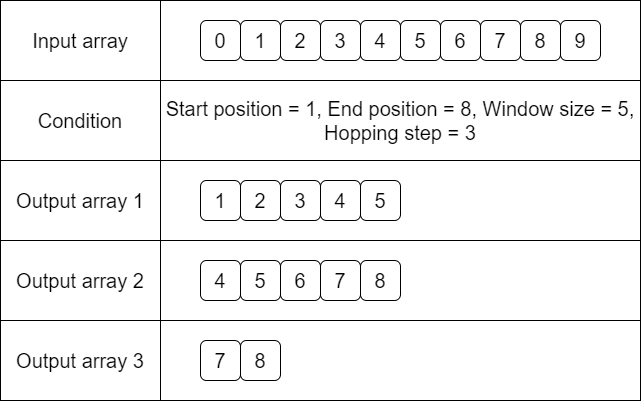
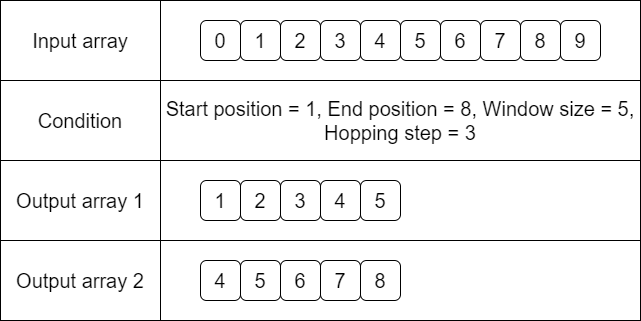
Hopping window 로직 수정 및 Doc 작성중
정책 통일 : 윈도우의 마지막 데이터를 만나면 종료

diff --git a/Peponi.Math/Peponi.Math.Tests/Windowing/HoppingWindow.cs b/Peponi.Math/Peponi.Math.Tests/Windowing/HoppingWindow.cs
@@ -80,8 +80,6 @@ public class HoppingWindowsTest
         exp.Add(input);
         input = new() { 4, 5, 6, 7, 8 };
         exp.Add(input);
-        input = new() { 7, 8 };
-        exp.Add(input);
 
         Assert.IsTrue(DataCheck.IsEqual(exp, HoppingWindows.ToHoppingWindows(datas, 1, 8, 5, 3)));
     }
@@ -96,8 +94,6 @@ public class HoppingWindowsTest
         List<int> input = new() { 1, 2, 3, 4, 5 };
         exp.Add(input);
         input = new() { 4, 5, 6, 7, 8 };
-        exp.Add(input);
-        input = new() { 7, 8 };
         exp.Add(input);
 
         Assert.IsTrue(DataCheck.IsEqual(exp, await HoppingWindows.ToHoppingWindowsAsync(datas, 1, 8, 5, 3)));
@@ -178,8 +174,6 @@ public class HoppingWindowsTest
         exp.Add(input);
         input = new() { 4, 5, 6, 7, 8 };
         exp.Add(input);
-        input = new() { 7, 8 };
-        exp.Add(input);
 
         Assert.IsTrue(DataCheck.IsEqual(exp, HoppingWindows.ToHoppingWindows(datas, 1, 8, 5, 3, x => x.Data)));
     }
@@ -194,8 +188,6 @@ public class HoppingWindowsTest
         List<int> input = new() { 1, 2, 3, 4, 5 };
         exp.Add(input);
         input = new() { 4, 5, 6, 7, 8 };
-        exp.Add(input);
-        input = new() { 7, 8 };
         exp.Add(input);
 
         Assert.IsTrue(DataCheck.IsEqual(exp, await HoppingWindows.ToHoppingWindowsAsync(datas, 1, 8, 5, 3, x => x.Data)));
@@ -257,6 +249,9 @@ public class HoppingWindowsTest
         input = new();
         for (timeIndex = 3; timeIndex < 9; timeIndex++) input.Add(DateTime.Today + TimeSpan.FromSeconds(timeIndex));
         exp.Add(input);
+        input = new();
+        for (timeIndex = 6; timeIndex <= 9; timeIndex++) input.Add(DateTime.Today + TimeSpan.FromSeconds(timeIndex));
+        exp.Add(input);
 
         Assert.IsTrue(DataCheck.IsEqual(exp, HoppingWindows.ToHoppingWindows(datas, DateTime.Today, DateTime.Today + TimeSpan.FromSeconds(9), TimeSpan.FromSeconds(5), TimeSpan.FromSeconds(3))));
     }
@@ -274,6 +269,9 @@ public class HoppingWindowsTest
         exp.Add(input);
         input = new();
         for (timeIndex = 3; timeIndex < 9; timeIndex++) input.Add(DateTime.Today + TimeSpan.FromSeconds(timeIndex));
+        exp.Add(input);
+        input = new();
+        for (timeIndex = 6; timeIndex <= 9; timeIndex++) input.Add(DateTime.Today + TimeSpan.FromSeconds(timeIndex));
         exp.Add(input);
 
         Assert.IsTrue(DataCheck.IsEqual(exp, await HoppingWindows.ToHoppingWindowsAsync(datas, DateTime.Today, DateTime.Today + TimeSpan.FromSeconds(9), TimeSpan.FromSeconds(5), TimeSpan.FromSeconds(3))));
@@ -340,6 +338,6 @@ public class HoppingWindowsTest
         input = new() { 3, 4, 5, 6, 7, 8 };
         exp.Add(input);
 
-        Assert.IsTrue(DataCheck.IsEqual(exp, await HoppingWindows.ToHoppingWindowsAsync(datas, DateTime.Today, DateTime.Today + TimeSpan.FromSeconds(9), TimeSpan.FromSeconds(5), TimeSpan.FromSeconds(3), x => x.Time, x => x.Data)));
+        Assert.IsTrue(DataCheck.IsEqual(exp, await HoppingWindows.ToHoppingWindowsAsync(datas, DateTime.Today, DateTime.Today + TimeSpan.FromSeconds(8), TimeSpan.FromSeconds(5), TimeSpan.FromSeconds(3), x => x.Time, x => x.Data)));
     }
 }

diff --git a/Peponi.Math/Peponi.Math/Windowing/HoppingWindow.Count.cs b/Peponi.Math/Peponi.Math/Windowing/HoppingWindow.Count.cs
@@ -73,12 +73,12 @@ public static partial class HoppingWindows
         {
             for (int j = i; j < i + windowSize; j++)
             {
-                if (j >= datas.Count() || j > endPosition)
+                windows.Add(datas.ElementAt(j));
+                if (j >= datas.Count() || j >= endPosition)
                 {
                     i = datas.Count();
                     break;
                 }
-                windows.Add(datas.ElementAt(j));
             }
             rtnDatas.Add(windows.ToList());
             windows.Clear();
@@ -102,12 +102,12 @@ public static partial class HoppingWindows
         {
             for (int j = i; j < i + windowSize; j++)
             {
-                if (j >= datas.Count() || j > endPosition)
+                windows.Add(dataSelector(datas.ElementAt(j)));
+                if (j >= datas.Count() || j >= endPosition)
                 {
                     i = datas.Count();
                     break;
                 }
-                windows.Add(dataSelector(datas.ElementAt(j)));
             }
             rtnDatas.Add(windows.ToList());
             windows.Clear();

diff --git a/Peponi.Math/Peponi.Math/Docs/README.md b/Peponi.Math/Peponi.Math/Docs/README.md
@@ -37,6 +37,7 @@
   - [6. Windowing](#6-windowing)
     - [6.1. Hopping window](#61-hopping-window)
     - [6.2. Sliding window](#62-sliding-window)
+    - [6.3. Tumbling window](#63-tumbling-window)
 
 
 
@@ -758,7 +759,6 @@ Console.WriteLine(UnitConvert.Convert(21.653, WeightUnit.KiloGram, WeightUnit.Po
     /* output:
     1, 2, 3, 4, 5
     4, 5, 6, 7, 8
-    7, 8
     */
     ```
     ```cs
@@ -773,7 +773,6 @@ Console.WriteLine(UnitConvert.Convert(21.653, WeightUnit.KiloGram, WeightUnit.Po
     /* output:
     1, 2, 3, 4, 5
     4, 5, 6, 7, 8
-    7, 8
     */
     ```
     ```cs
@@ -831,6 +830,119 @@ Console.WriteLine(UnitConvert.Convert(21.653, WeightUnit.KiloGram, WeightUnit.Po
     |Task<IEnumerable<IEnumerable\<V>>>|ToSlidingWindowsAsync(IEnumerable\<T>, uint, uint, Func<T, V>)||
     |IEnumerable<IEnumerable\<V>>|ToSlidingWindows(IEnumerable\<T>, uint, uint, uint, Func<T, V>)||
     |Task<IEnumerable<IEnumerable\<V>>>|ToSlidingWindowsAsync(IEnumerable\<T>, uint, uint, uint, Func<T, V>)||
+    |IEnumerable<IEnumerable\<DateTime>>|ToSlidingWindows(IEnumerable\<DateTime>, DateTime, TimeSpan)||
+    |Task<IEnumerable<IEnumerable\<DateTime>>>|ToSlidingWindowsAsync(IEnumerable\<DateTime>, DateTime, TimeSpan)||
+    |IEnumerable<IEnumerable\<DateTime>>|ToSlidingWindows(IEnumerable\<DateTime>, DateTime, DateTime, TimeSpan)||
+    |Task<IEnumerable<IEnumerable\<DateTime>>>|ToSlidingWindowsAsync(IEnumerable\<DateTime>, DateTime, DateTime, TimeSpan)||
+    |IEnumerable<IEnumerable\<V>>|ToSlidingWindows(IEnumerable\<T>, DateTime, TimeSpan, Func<T, DateTime>, Func<T, V>)||
+    |Task<IEnumerable<IEnumerable\<V>>>|ToSlidingWindowsAsync(IEnumerable\<T>, DateTime, TimeSpan, Func<T, DateTime>, Func<T, V>)||
+    |IEnumerable<IEnumerable\<V>>|ToSlidingWindows(IEnumerable\<T>, DateTime, DateTime, TimeSpan, Func<T, DateTime>, Func<T, V>)||
+    |Task<IEnumerable<IEnumerable\<V>>>|ToSlidingWindowsAsync(IEnumerable\<T>, DateTime, DateTime, TimeSpan, Func<T, DateTime>, Func<T, V>)||
+2. Example
+    ```cs
+    internal class DataClass
+    {
+        public DateTime Time;
+        public int Data;
+
+        public DataClass(int data)
+        {
+            Data = data;
+        }
+
+        public DataClass(DateTime time, int data)
+        {
+            Time = time;
+            Data = data;
+        }
+    }
+    ```
+    ```cs
+    using Peponi.Math.Windowing;
+
+    List<int> datas = new();
+    for (int i = 0; i < 10; i++) datas.Add(i);
+
+    var result = SlidingWindows.ToSlidingWindows(datas, 2, 8, 5);
+    foreach (var arr in result) Console.WriteLine(string.Join(", ", arr));
+
+    /* output:
+    2, 3, 4, 5, 6
+    3, 4, 5, 6, 7
+    4, 5, 6, 7, 8
+    */
+    ```
+    ```cs
+    using Peponi.Math.Windowing;
+
+    List<DataClass> datas = new();
+    for (int i = 0; i < 10; i++) datas.Add(new(i));
+
+    var result = SlidingWindows.ToSlidingWindows(datas, 2, 8, 5, x => x.Data);
+    foreach (var arr in result) Console.WriteLine(string.Join(", ", arr));
+
+    /* output:
+    2, 3, 4, 5, 6
+    3, 4, 5, 6, 7
+    4, 5, 6, 7, 8
+    */
+    ```
+    ```cs
+    using Peponi.Math.Windowing;
+
+    List<DateTime> datas = new();
+    for (int i = 0; i < 10; i++) datas.Add(DateTime.Today + TimeSpan.FromSeconds(i));
+
+    var result = SlidingWindows.ToSlidingWindows(datas, DateTime.Today + TimeSpan.FromSeconds(1),
+                                                 DateTime.Today + TimeSpan.FromSeconds(8), TimeSpan.FromSeconds(5));
+    foreach (var arr in result) Console.WriteLine(string.Join(", ", arr.Select(x => x.ToString("HH.mm.ss"))));
+
+    /* output:
+    00.00.01, 00.00.02, 00.00.03, 00.00.04, 00.00.05, 00.00.06
+    00.00.02, 00.00.03, 00.00.04, 00.00.05, 00.00.06, 00.00.07
+    00.00.03, 00.00.04, 00.00.05, 00.00.06, 00.00.07, 00.00.08
+    */
+    ```
+    ```cs
+    using Peponi.Math.Windowing;
+
+    List<DataClass> datas = new();
+    for (int i = 0; i < 10; i++) datas.Add(new(DateTime.Today + TimeSpan.FromSeconds(i) + TimeSpan.FromMilliseconds(i), i));
+
+    var result = SlidingWindows.ToSlidingWindows(datas, DateTime.Today + TimeSpan.FromSeconds(1),
+                                                 DateTime.Today + TimeSpan.FromSeconds(8), TimeSpan.FromSeconds(5), x => x.Time, x => x.Data);
+    foreach (var arr in result) Console.WriteLine(string.Join(", ", arr));
+
+    /* output:
+    1, 2, 3, 4, 5
+    2, 3, 4, 5, 6
+    3, 4, 5, 6, 7
+    */
+    ```
+
+
+### 6.3. Tumbling window
+
+
+![TumblingWindow1](./Img/TumblingWindow1.png)
+![TumblingWindow2](./Img/TumblingWindow2.png)
+
+
+1. Methods
+    |Return type|Name|Description|
+    |-----------|----|-----------|
+    |IEnumerable<IEnumerable\<T>>|ToTumblingWindows(IEnumerable\<T>, uint)|Get windows for given parameters|
+    |Task<IEnumerable<IEnumerable\<T>>>|ToTumblingWindowsAsync(IEnumerable\<T>, uint)||
+    |IEnumerable<IEnumerable\<T>>|ToTumblingWindows(IEnumerable\<T>, uint, uint)||
+    |Task<IEnumerable<IEnumerable\<T>>>|ToTumblingWindowsAsync(IEnumerable\<T>, uint, uint)||
+    |IEnumerable<IEnumerable\<T>>|ToTumblingWindows(IEnumerable\<T>, uint, uint, uint)||
+    |Task<IEnumerable<IEnumerable\<T>>>|ToTumblingWindowsAsync(IEnumerable\<T>, uint, uint, uint)||
+    |IEnumerable<IEnumerable\<V>>|ToTumblingWindows(IEnumerable\<T>, uint, Func<T, V>)||
+    |Task<IEnumerable<IEnumerable\<V>>>|ToTumblingWindowsAsync(IEnumerable\<T>, uint, Func<T, V>)||
+    |IEnumerable<IEnumerable\<V>>|ToTumblingWindows(IEnumerable\<T>, uint, uint, Func<T, V>)||
+    |Task<IEnumerable<IEnumerable\<V>>>|ToTumblingWindowsAsync(IEnumerable\<T>, uint, uint, Func<T, V>)||
+    |IEnumerable<IEnumerable\<V>>|ToTumblingWindows(IEnumerable\<T>, uint, uint, uint, Func<T, V>)||
+    |Task<IEnumerable<IEnumerable\<V>>>|ToTumblingWindowsAsync(IEnumerable\<T>, uint, uint, uint, Func<T, V>)||
     |IEnumerable<IEnumerable\<DateTime>>|ToSlidingWindows(IEnumerable\<DateTime>, DateTime, TimeSpan)||
     |Task<IEnumerable<IEnumerable\<DateTime>>>|ToSlidingWindowsAsync(IEnumerable\<DateTime>, DateTime, TimeSpan)||
     |IEnumerable<IEnumerable\<DateTime>>|ToSlidingWindows(IEnumerable\<DateTime>, DateTime, DateTime, TimeSpan)||
